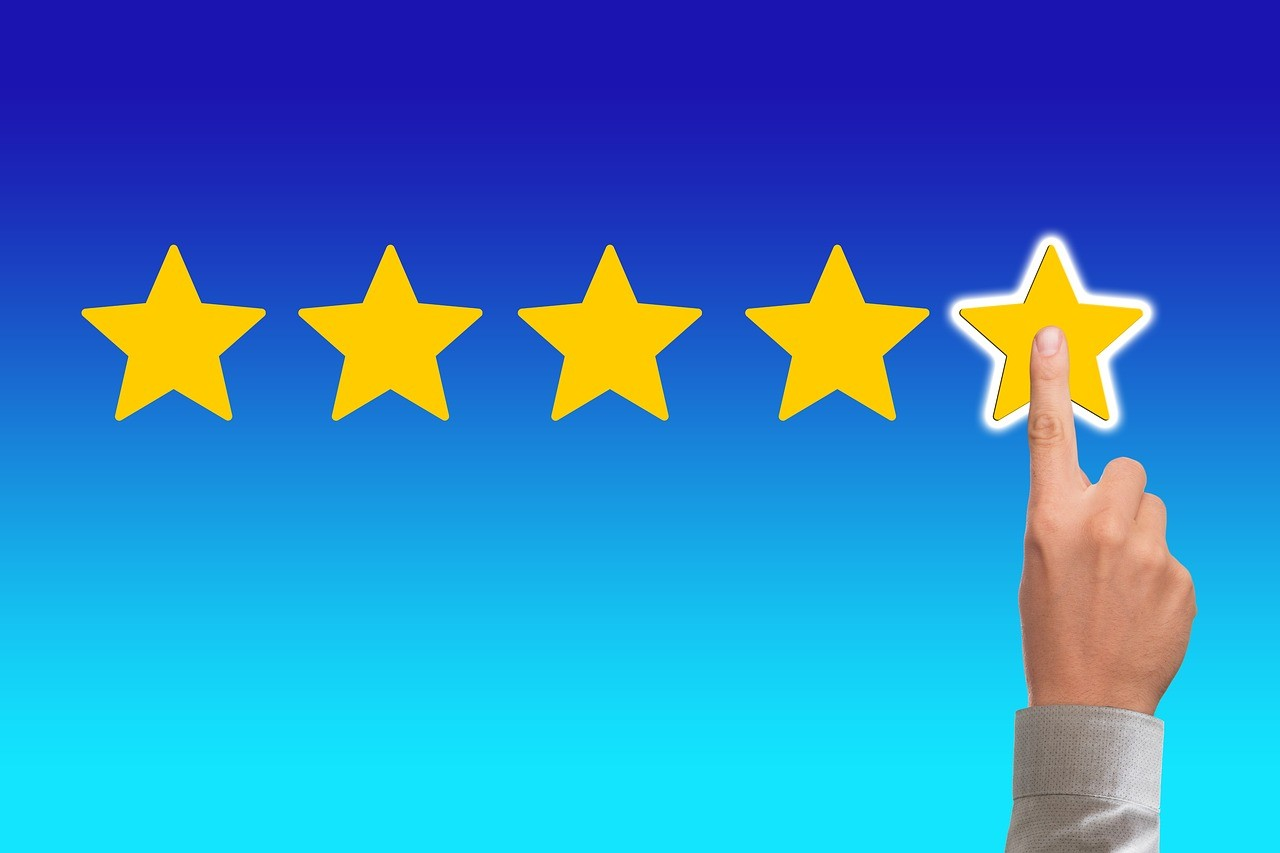
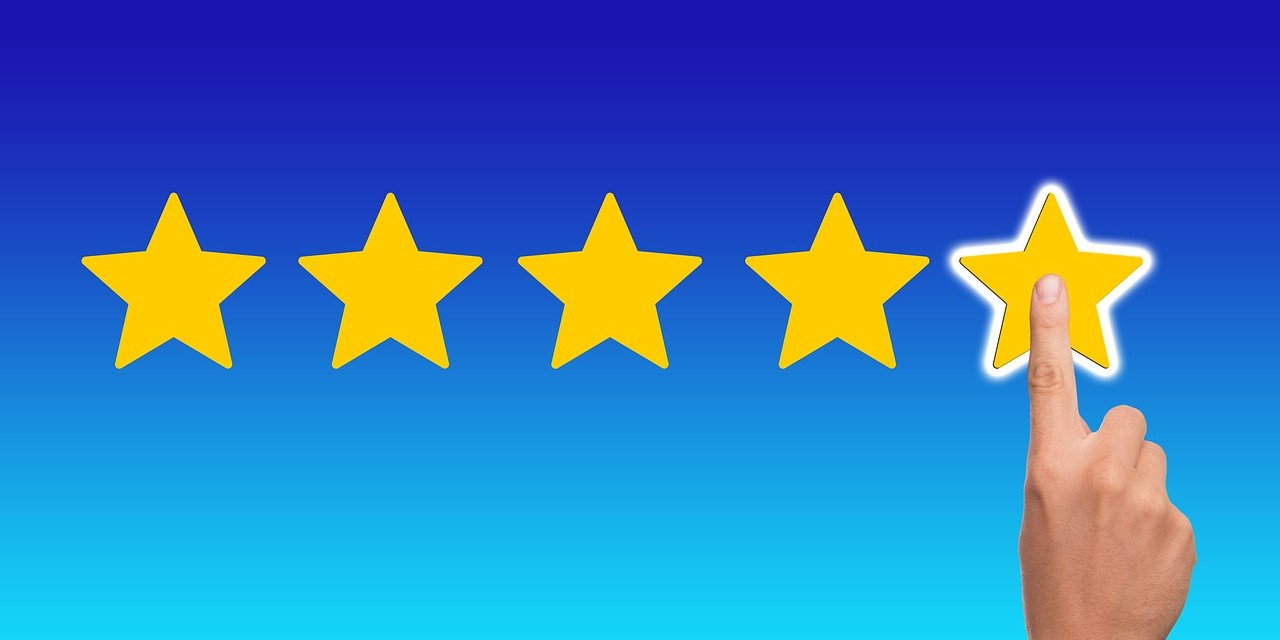
Portfolio Awards photo 2

diff --git a/Smarty/HTML_BS4/index-onepage-construction.html b/Smarty/HTML_BS4/index-onepage-construction.html
@@ -636,6 +636,7 @@
 							</div><!-- /item -->
 
 
+							<!-- Portfolio Awards photo 2 -->
 							<div class="col-md-3 col-sm-3 mix development"><!-- item -->
 
 								<div class="item-box">
@@ -645,7 +646,7 @@
 											<span class="inner">
 
 												<!-- lightbox -->
-												<a class="ico-rounded lightbox" href="demo_files/images/thematics/construction/w2-min.jpg" data-plugin-options='{"type":"image"}'>
+												<a class="ico-rounded lightbox" href="demo_files/images/AARocketElevAward03size600x300.jpg" data-plugin-options='{"type":"image"}'>
 													<span class="fa fa-plus fs-20"></span>
 												</a>
 
@@ -657,11 +658,11 @@
 											</span>
 										</span>
 
-										<img class="img-fluid" src="demo_files/images/thematics/construction/w2-min.jpg" width="600" height="399" alt="">
+										<img class="img-fluid" src="demo_files/images/AARocketElevAward03size600x300.jpg" width="600" height="399" alt="Finger selecting rate of five stars">
 									</figure>
 
 									<div class="item-box-desc">
-										<h3>Speaker Design</h3>
+										<h3>Award: <em>Client's First Choise</em></h3>
 										<ul class="list-inline categories m-0">
 											<li><a href="#">Audio</a></li>
 											<li><a href="#">Design</a></li>
